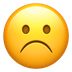
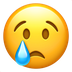
upload base de l'appli

Changed region(s): [[0.1944, 0.2778, 0.8056, 0.9167]]

diff --git a/appli.html b/appli.html
@@ -24,7 +24,6 @@
 <link rel="stylesheet" href="css/appli.css">
 <link href='https://api.mapbox.com/mapbox.js/v3.3.1/mapbox.css' rel='stylesheet' />
 
-
 <script src="https://code.jquery.com/jquery-3.7.1.min.js"></script>
 
 <link rel="stylesheet" href="https://unpkg.com/leaflet.markercluster@1.4.1/dist/MarkerCluster.css" />
@@ -57,13 +56,17 @@
                 <div class="sous_onglet">
                     <div id="depart">
                         <label> Départ  :  </label>
-                        <input type="text" placeholder="  Choisissez un point de départ..." class="inputH" id="input_depart"> </br>
-                        <img src="images/loupe.png" id="loupe1" width="20px">
+                        <div id="barre">
+                            <input type="text" placeholder="  Choisissez un point de départ..." class="inputH" id="input_depart"> </br>
+                            <img src="images/loupe.png" class="loupe">
+                        </div>
                     </div>
-                    <div>
+                    <div id="arrivee">
                         <label for="arrive"> Arrivée  :  </label>
-                        <input type="text" placeholder="  Choisissez une destination..." class="inputH" id="input_arrive">
-                        <img src="images/loupe.png" id="loupe2" width="20px">
+                        <div id="barre">
+                            <input type="text" placeholder="  Choisissez une destination..." class="inputH" id="input_arrive">
+                            <img src="images/loupe.png" class="loupe">
+                        </div>
                     </div>
                 </div>
             </div>
@@ -79,12 +82,12 @@
 
                 <div class="emoji">
                     <div id="rectangle">
-                        <img src="images/emoji_epoustouflant.png" width="26px" class="emojis" id="emoji1">
-                        <img src="images/emoji_emotif.png" width="26px" class="emojis" id="emoji5">
-                        <img src="images/emoji_amour.png" width="26px" class="emojis" id="emoji3">
-                        <img src="images/emoji_joyeux.png" width="26px" class="emojis" id="emoji2">
-                        <img src="images/emoji_triste.png" width="26px" class="emojis" id="emoji4">
-                        <img src="images/emoji_festif.png" width="26px" class="emojis" id="emoji6">
+                        <img src="images/emoji_epoustouflant.png" width="26px" class="emojis" id="emoji_epoustouflant">
+                        <img src="images/emoji_triste.png" width="26px" class="emojis" id="emoji_triste">
+                        <img src="images/emoji_amour.png" width="26px" class="emojis" id="emoji_amour">
+                        <img src="images/emoji_joyeux.png" width="26px" class="emojis" id="emoji_joyeux">
+                        <img src="images/emoji_emouvant.png" width="26px" class="emojis" id="emoji_emouvant">
+                        <img src="images/emoji_festif.png" width="26px" class="emojis" id="emoji_festif">
                     </div>
 
                     <p id="nom_sentiment"> Testez ! </p>
@@ -102,7 +105,7 @@
                 </div>
                 <p class="sous_onglet_info"> Envie d'alimenter votre sentithèque? </p>
                 <div class="choix">
-                    <p class ="bouton" id="ajouter"> Ajouter </p>
+                    <p class ="bouton" id="btn_ajouter"> Ajouter </p>
                     <p class ="bouton"> Modifier </p>
                     <p class ="bouton"> Supprimer </p>
                 </div>
@@ -126,23 +129,26 @@
             </div>
             <div class="emoji">
                 <div id="rectangle">
-                    <img src="images/emoji_epoustouflant.png" width="26px" class="emojis" id="emoji1">
-                    <img src="images/emoji_emotif.png" width="26px" class="emojis" id="emoji5">
-                    <img src="images/emoji_amour.png" width="26px" class="emojis" id="emoji3">
-                    <img src="images/emoji_joyeux.png" width="26px" class="emojis" id="emoji2">
-                    <img src="images/emoji_triste.png" width="26px" class="emojis" id="emoji4">
-                    <img src="images/emoji_festif.png" width="26px" class="emojis" id="emoji6">
+                    <img src="images/emoji_epoustouflant.png" width="26px" class="emojis" id="emoji_2epoustouflant">
+                    <img src="images/emoji_triste.png" width="26px" class="emojis" id="emoji_2triste">
+                    <img src="images/emoji_amour.png" width="26px" class="emojis" id="emoji_2amour">
+                    <img src="images/emoji_joyeux.png" width="26px" class="emojis" id="emoji_2joyeux">
+                    <img src="images/emoji_emouvant.png" width="26px" class="emojis" id="emoji_2emouvant">
+                    <img src="images/emoji_festif.png" width="26px" class="emojis" id="emoji_2festif">
                 </div>
 
-                <p id="nom_sentiment"> Nom du sentiment </p>
+                <p id="nom_sentiment2"> Nom du sentiment </p>
             </div>
 
             <div id="description">
                 <p class="txtInfo"> &nbsp • &nbsp  Description du moment :  </p>
-                <div><input type="text" placeholder="  Décrivez votre moment..." class="inputD" id="input_desc"></div> </br>
+                <!--<div><input type="text" placeholder="  Décrivez votre moment..." class="inputD" id="input_desc"></div> </br> -->
+
+                <div><textarea id="input_desc" class="inputD" placeholder="Describe yourself here..." name="description" rows="5" cols="33"> </textarea></div>
             </div>
 
             <button class="btn"> Enregistrer </button>
+            <img src="images/btn_retour.png" width="30px" id="btn_retour" >
         </div>
     </div>
 

diff --git a/js/appli.js b/js/appli.js
@@ -1,50 +1,68 @@
-var nom_surprise = "Etonné";
-var desc_surprise = "...";
-
-var nom_joyeux = "Joyeux";
-var desc_joyeux = "allô";
-
-var nom_amour = "Amour";
-var desc_amour = "Un moment mémorable avec votre âme soeur ?";
+const sentiments = [
+    { nom: "Epoustouflant", desc: "Fais-toi surprendre ! " },
+    { nom: "Triste", desc: "Batterie de ... à 1%" },
+    { nom: "Amour", desc: "Un moment mémorable avec votre âme soeur ?" },
+    { nom: "Joyeux", desc: "Croques la vie à pleine dent !" },
+    { nom: "Emouvant", desc: "Pleurer de joie !" },
+    { nom: "Festif", desc: "Un endroit amusant et convivial !" }
+];
 
 var i = 0;
-var txt = 'artages tes sentiments avec tes amis !'; /* The text */
-var speed = 50; /* The speed/duration of the effect in milliseconds */
+var txt = 'artages tes sentiments avec tes amis !';
+var speed = 50;
 
-window.onload = function() { 
+window.onload = function () {
     init();
-    document.getElementById("emoji1").addEventListener("click", function() { modifier(nom_surprise, desc_surprise); });
-    document.getElementById("emoji2").addEventListener("click", function() { modifier(nom_joyeux, desc_joyeux); });
-    document.getElementById("emoji3").addEventListener("click", function() { modifier(nom_amour, desc_amour); });
-    document.getElementById("emoji4").addEventListener("click", function() { modifier(nom_surprise, desc_surprise); });
-    document.getElementById("emoji5").addEventListener("click", function() { modifier(nom_surprise, desc_surprise); });
-    document.getElementById("emoji6").addEventListener("click", function() { modifier(nom_surprise, desc_surprise); });
-
     typeWriter();
 
-    document.getElementById("ajouter").addEventListener("click", ajouter);
-} 
+    for (let i = 0; i < sentiments.length; i++) {
+        const emojiId = "emoji_" + sentiments[i].nom.toLowerCase();
+        document.getElementById(emojiId).addEventListener("click", function () {
+            modifier(sentiments[i].nom, sentiments[i].desc);
+        });
+    }
+
+    for (let j = 0; j < sentiments.length; j++) {
+        const emojiId2 = "emoji_2" + sentiments[j].nom.toLowerCase();
+        document.getElementById(emojiId2).addEventListener("click", function () {
+            console.log(sentiments[j].nom);
+            modifier2(sentiments[j].nom);
+        });
+    }
+
+    document.getElementById("btn_ajouter").addEventListener("click", ajouter);
+    document.getElementById("btn_retour").addEventListener("click", retour);
+}
+
+function modifier(nom, desc) {
+    document.getElementById("nom_sentiment").innerHTML = nom;
+    document.getElementById("description_sentiment").innerHTML = desc;
+}
+
+function modifier2(nom) {
+    document.getElementById("nom_sentiment2").innerHTML = nom;
+}
+
 
 function init() {
     document.getElementById("ongletContaint").style.display = "block";
     document.getElementById("ongletAjouter").style.display = "none";
 }
 
-function modifier(nom,desc) {
-    document.getElementById("nom_sentiment").innerHTML = nom;
-    document.getElementById("description_sentiment").innerHTML = desc;
-    document.getElementById("nom_sentiment2").innerHTML = nom;
+function ajouter() {
+    document.getElementById("ongletContaint").style.display = "none";
+    document.getElementById("ongletAjouter").style.display = "block";
+}
+
+function retour() {
+    document.getElementById("ongletContaint").style.display = "block";
+    document.getElementById("ongletAjouter").style.display = "none";
 }
 
 function typeWriter() {
     if (i < txt.length) {
-      document.getElementById("typewriter").innerHTML += txt.charAt(i);
-      i++;
-      setTimeout(typeWriter, speed);
+        document.getElementById("typewriter").innerHTML += txt.charAt(i);
+        i++;
+        setTimeout(typeWriter, speed);
     }
-}
-
-function ajouter() {
-    document.getElementById("ongletContaint").style.display = "none";
-    document.getElementById("ongletAjouter").style.display = "block";
 }

diff --git a/css/appli.css b/css/appli.css
@@ -94,24 +94,38 @@ body {
     border-radius: 11px;
     border: rgb(236, 231, 231);
     height: 25px;
-    width: 225px;
+    width: 240px;
 }
 
 #depart {
+    display: flex;
     margin-bottom: 6%;
+    margin-left: 2%;
 }
 
-#loupe1 {
-    position: absolute;
-    top: 33.5%;
-    right: 14%; 
+#arrivee {
+    display: flex;
+    margin-bottom: 6%;
+    margin-left: 2%;
 }
 
-#loupe2 {
+#barre {
+    display: flex;
+    margin-left: 2%;
+}
+
+.loupe {
+    margin-left: -25px;
+    cursor: pointer;
+    width : 20px;
+    height: 24px;
+}
+
+/* #loupe2 {
     position: absolute;
     top: 39.2%;
     right: 14%;
-}
+} */
 
 #input_depart::placeholder{
     color: #13528d;
@@ -146,6 +160,14 @@ body {
     letter-spacing: 1px;
 }
 
+#nom_sentiment2 {
+    font-size: 18px;
+    font-family: 'Patua one', sans-serif;
+    width: 50%;
+    margin: 17px auto;
+    letter-spacing: 1px;
+}
+
 #description_sentiment {
     width: 76%;
     margin: 18px auto;
@@ -168,9 +190,9 @@ body {
 }
 
 .bouton:hover {
-    color: #375aab;
+    color: #74B1DD;
     font-weight: 600;
-    transition: color 0.5s;
+    transition: 0.5s;
 }
 
 
@@ -210,8 +232,8 @@ body {
 #description {
     width: 80%;
     margin: 0 auto;
-    margin-top: 8%;
-    margin-bottom: 1.5%;
+    margin-top: 7%;
+    margin-bottom: 1.2%;
 }
 
 .inputD{
@@ -219,7 +241,7 @@ body {
     color: #13528d;
     border-radius: 11px;
     border: rgb(236, 231, 231);
-    height: 150px;
+    height: 140px;
     width: 290px;
     margin-top: 1%;
 }
@@ -227,11 +249,12 @@ body {
 #input_desc::placeholder{
     color: #13528d;
     font-style: italic;
-}
+} 
 
 .btn {
     width: 50%;
     height: 35px;
+    margin-top: 2.5%;
     border: 0;
     border-radius: 100px;
     background-color: #2ba8fb;
@@ -254,6 +277,13 @@ body {
     -webkit-transition: all 0.25s;
     box-shadow: none;
     transform: scale(0.98);
+}
+
+#btn_retour {
+    position: absolute;
+    left: 85%;
+    margin-top: 2.5%;
+    cursor: pointer;
 }
 
 /*
